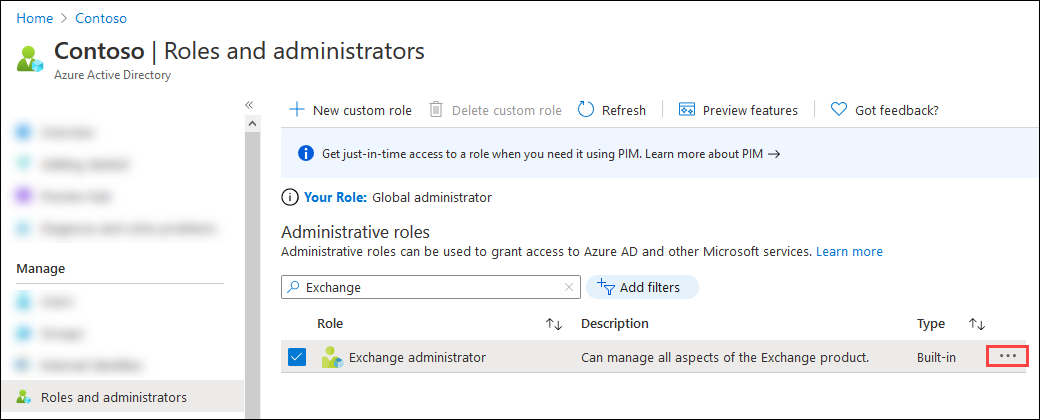
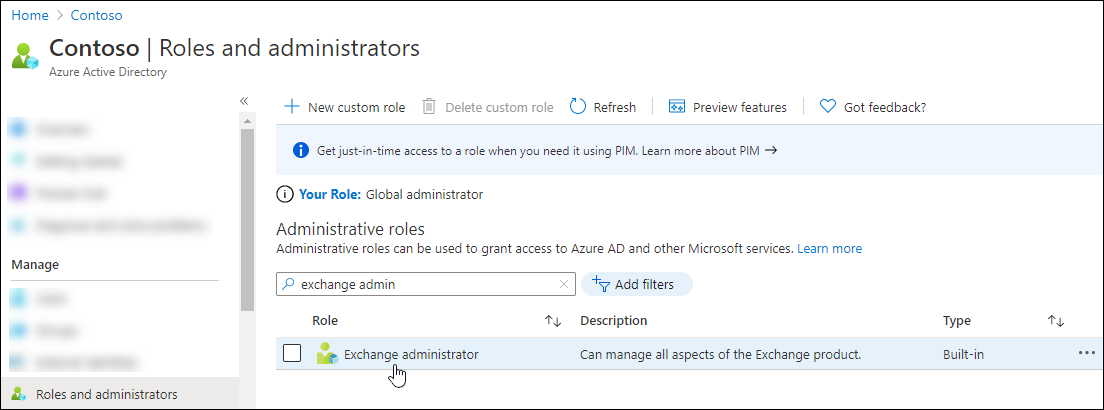
Final updates to app-only auth topic

diff --git a/exchange/docs-conceptual/app-only-auth-powershell-v2.md b/exchange/docs-conceptual/app-only-auth-powershell-v2.md
@@ -249,50 +249,31 @@ Azure AD has more than 50 admin roles available. For app-only authentication in 
 - Exchange administrator
 - Global Reader
 
-The required procedures in the Azure AD portal are different based on the age, nature, and licensing of your organization. Select the experience that works best for you.
-
 For general instructions about assigning roles in Azure AD, see [View and assign administrator roles in Azure Active Directory](https://docs.microsoft.com/azure/active-directory/roles/manage-roles-portal).
-
-### New instructions
 
 1. On the Azure AD portal at <https://portal.azure.com/>, under **Manage Azure Active Directory**, click **View**.
 
-2. Under **Manage**, select **Roles and administrators**.
+   ![Click View in the Azure AD portal under Manage Azure Active Directory](media/exo-app-only-auth-manage-ad-view.png)
+
+2. On the **Overview** page that appears, under **Manage**, select **Roles and administrators**.
 
    ![Select Roles and administrators from the overview page](media/exo-app-only-auth-select-roles-and-administrators.png)
 
-3. On the **Roles and administrators** page that appears, find and select one of the supported roles, click the ellipses (...) for the role.
+3. On the **Roles and administrators** page that appears, find and select one of the supported roles by _clicking on the name of the role_ (not the check box) in the results.
 
-   ![Find and select a supported role before clicking the ellipses](media/exo-app-only-auth-find-and-select-supported-role.png)
+   ![Find and select a supported role by clicking on the role name](media/exo-app-only-auth-find-and-select-supported-role.png)
 
-   In the dialog that appears, choose **Description**.
-
-4. On the role description page that appears, under **Manage**, select **Assignments**.
-
-   ![Select Assignments on the role description page](media/exo-app-only-auth-role-description-page-click-assignments.png)
-
-5. On the **Assignments** page that appears, click **Add assignments**.
+4. On the **Assignments** page that opens, click **Add assignments**.
 
    ![Select Add assignments on the role assignments page](media/exo-app-only-auth-role-assignments-click-add-assignments.png)
 
-6. In the **Add assignments** flyout that appears, start typing the name of the app that you created in [Step 1](#step-1-register-the-application-in-azure-ad). When you see the app, select it, and then click **Add**.
+5. In the **Add assignments** flyout that appears, find and select the app that you created in [Step 1](#step-1-register-the-application-in-azure-ad).
+
 
    ![Select Add assignments on the role assignments page](media/exo-app-only-auth-find-add-select-app-for-assignment.png)
 
-7. Back on the **Assignments** page, verify that the app has been assigned to the role.
+   When you're finished, click **Add**.
+
+6. Back on the **Assignments** page, verify that the app has been assigned to the role.
 
    ![The role assignments page after to added the app to the role](media/exo-app-only-auth-app-assigned-to-role.png)
-
-### Original instructions
-
-1. In the Azure AD portal under **Manage Azure Active Directory**, click **View**.
-
-2. Under **Manage**, select **Roles and administrators**.
-
-3. Select one of the supported roles. On the **Assignments** page that appears, click **Add assignments**
-
-4. In the **Add assignments** flyout that appears, click **No member selected**, find and select the application, and then click **Select**. Again in **Add assignments**, click **Next >**.
-
-   ![Add a role assignment](media/app-only-auth-role-assignment.png)
-
-5. Provide a justification for this assignment and then click **Assign**.
